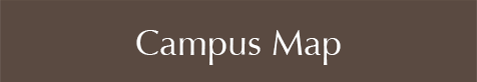
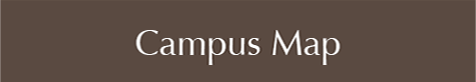
Menu Changes

diff --git a/style.css b/style.css
@@ -83,7 +83,7 @@ body {
 }
 .menu2 {
 	padding-top: 3px;
-	padding-left: 468px;
+	padding-left: 469px;
 	max-width: 1920px;
 }
 
